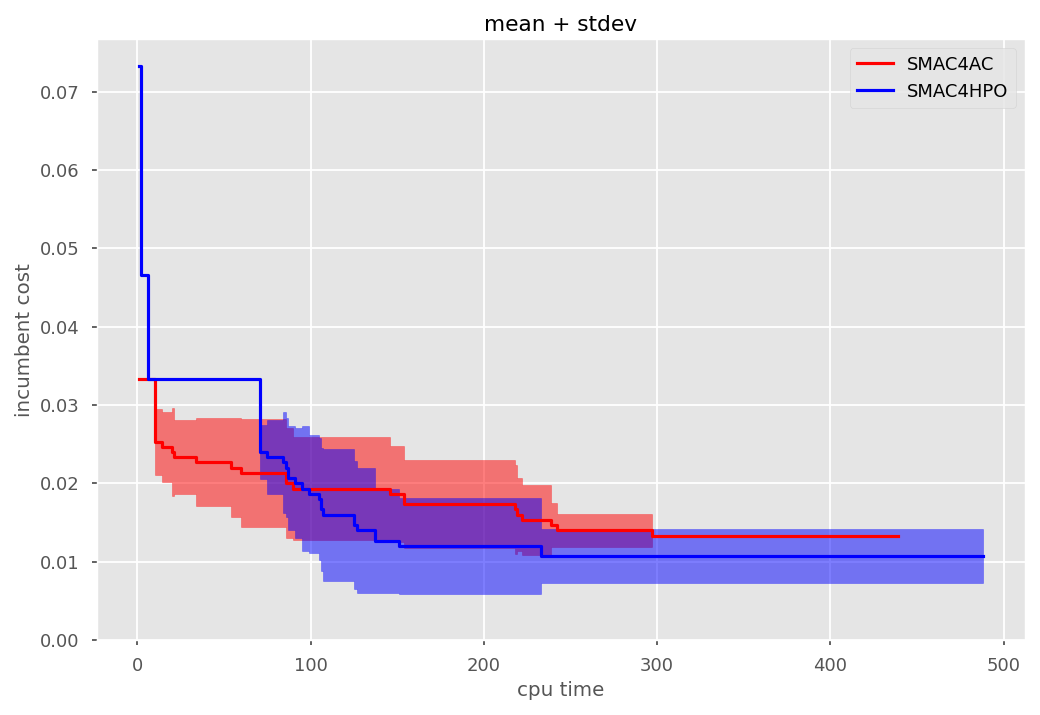
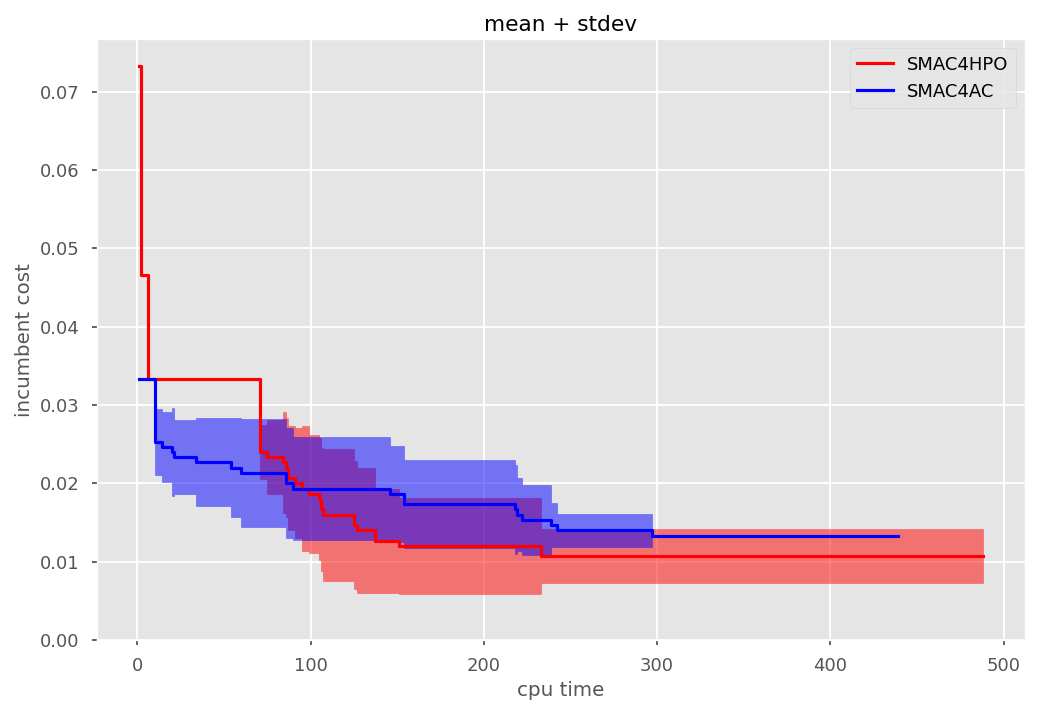
Change order of plots

diff --git a/w02_evaluation/scripts/automlPerformanceOverTime.py b/w02_evaluation/scripts/automlPerformanceOverTime.py
@@ -339,6 +339,7 @@ if __name__ == '__main__':
         exit(0)
 
     trajectory_data = read_trajectory(DATA_FOLDER)
+    all_data = {"SMAC4HPO": trajectory_data["SMAC4HPO"], "SMAC4AC": trajectory_data["SMAC4AC"]}  # Change order of plots
     smac4hpo_data = {"SMAC4HPO": trajectory_data["SMAC4HPO"]}
     PLOT_FOLDER.mkdir(exist_ok=True, parents=True)
 
@@ -360,9 +361,9 @@ if __name__ == '__main__':
     plot_grouped(smac4hpo_data, step=True, main_line="median", bound_lines="percentile",
                  save_fig_path=PLOT_FOLDER / "8_3_smac4hpo_median_percentile.png", show_plots=SHOW_PLOTS)
 
-    plot_grouped(trajectory_data, step=True, main_line="mean", bound_lines="stdev",
+    plot_grouped(all_data, step=True, main_line="mean", bound_lines="stdev",
                  save_fig_path=PLOT_FOLDER / "9_1_compare_median_percentile.png", show_plots=SHOW_PLOTS)
-    plot_grouped(trajectory_data, step=True, main_line="mean", bound_lines="stderr",
+    plot_grouped(all_data, step=True, main_line="mean", bound_lines="stderr",
                  save_fig_path=PLOT_FOLDER / "9_2_compare_mean_stderr.png", show_plots=SHOW_PLOTS)
-    plot_grouped(trajectory_data, step=True, main_line="median", bound_lines="percentile",
+    plot_grouped(all_data, step=True, main_line="median", bound_lines="percentile",
                  save_fig_path=PLOT_FOLDER / "9_3_compare_median_percentile.png", show_plots=SHOW_PLOTS)
